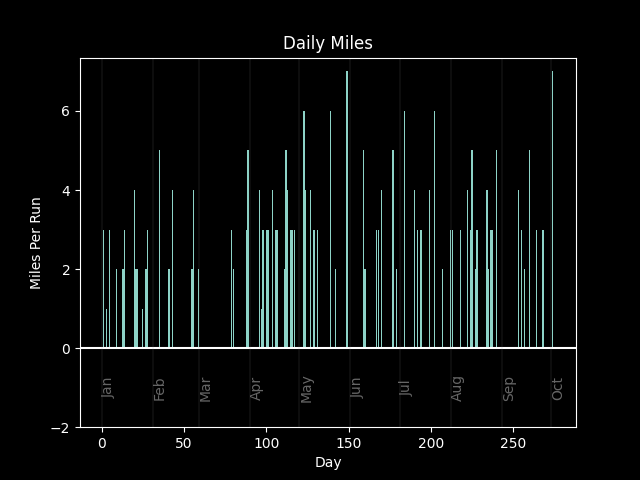
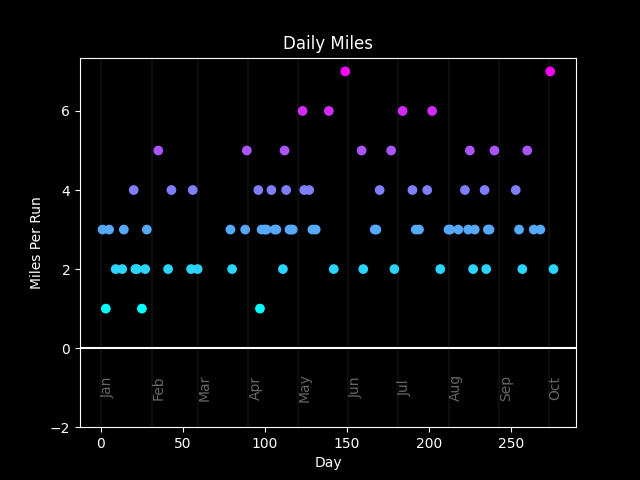
Update for 10/03/2023

diff --git a/progress.py b/progress.py
@@ -259,7 +259,7 @@ if plot_distribution:
 
 plot_daily_miles = True
 if plot_daily_miles:
-    plt.bar(df['day'], df['miles'])
+    plt.scatter(df['day'][df['miles']>0], df['miles'][df['miles']>0], c=df['miles'][df['miles']>0], cmap='cool')
     plt.axhline(y=0, color='white')
     plot_months(ndays, y=-1)
     plt.ylim(bottom=-2)
